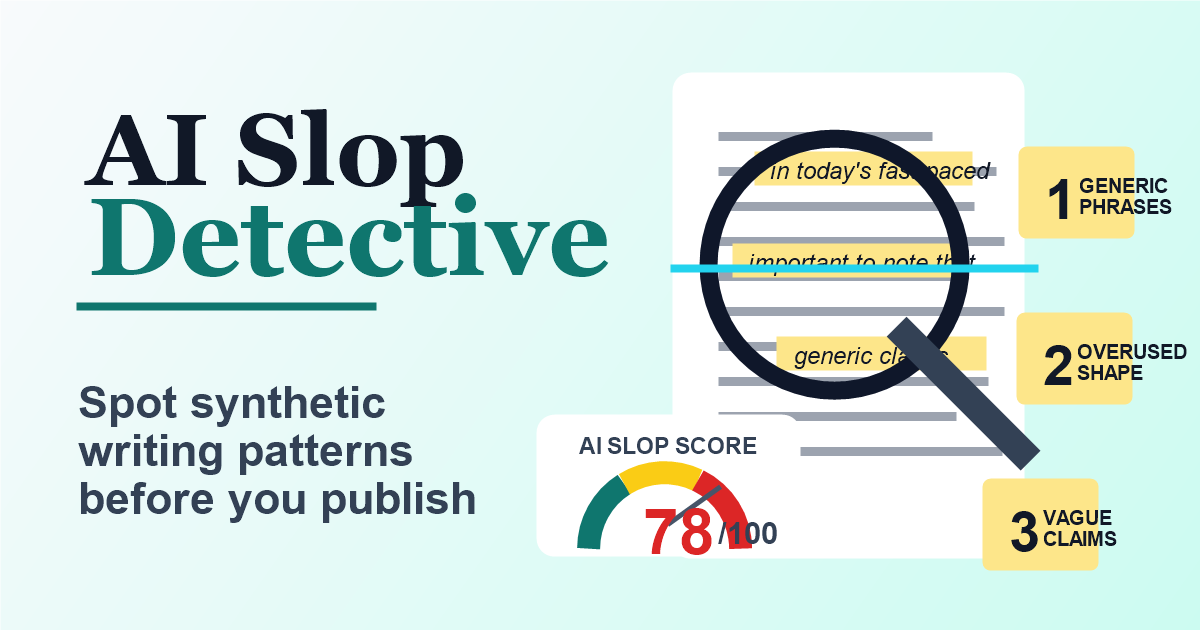
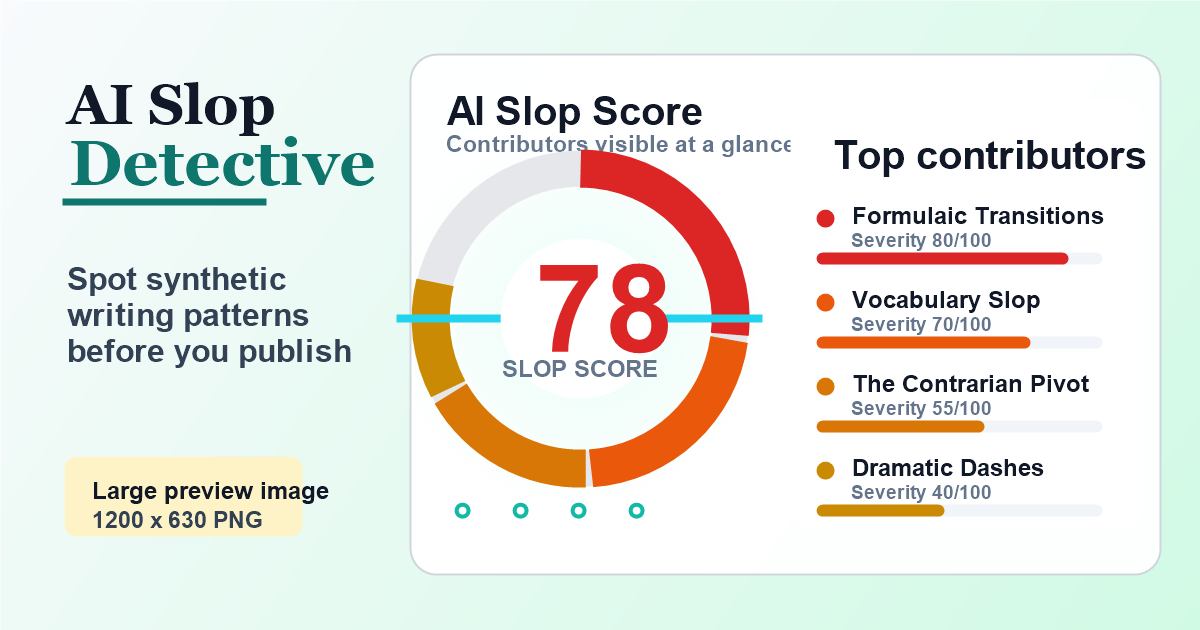
improved visual on the wheels

diff --git a/components/SlopChart.tsx b/components/SlopChart.tsx
@@ -65,6 +65,13 @@ const SlopChart: React.FC<SlopChartProps> = ({ analysis, patterns }) => {
      }];
   }
 
+  const contributors = chartData
+    .filter(item => item.name !== "Remaining" && item.name !== "Clean Writing")
+    .sort((a, b) => b.value - a.value);
+
+  const totalContributorValue = contributors.reduce((acc, item) => acc + item.value, 0);
+  const topContributors = contributors.slice(0, 5);
+
   let scoreColor = '#0d9488'; // teal-600 for low/good scores
   if (score >= 30) scoreColor = '#ca8a04';
   if (score >= 60) scoreColor = '#dc2626';
@@ -99,15 +106,31 @@ const SlopChart: React.FC<SlopChartProps> = ({ analysis, patterns }) => {
 
   return (
     <div className="bg-white rounded-2xl border border-gray-200 p-6 shadow-sm relative overflow-hidden">
-        <h3 className="text-lg font-bold text-gray-700 mb-4 text-center">AI Slop Score</h3>
-        <div className="h-[300px] w-full relative">
+        <div className="absolute inset-0 pointer-events-none">
+          <div className="absolute -top-24 left-10 h-48 w-48 rounded-full bg-teal-100/60 blur-3xl"></div>
+          <div className="absolute bottom-0 right-0 h-56 w-56 rounded-full bg-red-100/40 blur-3xl"></div>
+          <div className="slop-chart-scan absolute left-0 right-0 h-12 bg-cyan-300/10"></div>
+        </div>
+
+        <div className="relative z-10 mb-5 flex flex-col gap-2 text-center md:text-left">
+          <span className="text-xs font-bold uppercase text-teal-700">Pattern contribution</span>
+          <h3 className="text-xl font-bold text-gray-900">AI Slop Score</h3>
+        </div>
+
+        <div className="relative z-10 grid grid-cols-1 md:grid-cols-[minmax(280px,0.95fr)_minmax(260px,1.05fr)] gap-6 items-center">
+          <div className="h-[320px] w-full relative">
+            <div
+              className="slop-chart-orbit absolute left-1/2 top-1/2 h-64 w-64 -translate-x-1/2 -translate-y-1/2 rounded-full opacity-70"
+              style={{ background: `conic-gradient(from 120deg, transparent 0deg, ${scoreColor} 70deg, transparent 150deg, rgba(20, 184, 166, 0.25) 230deg, transparent 360deg)` }}
+            ></div>
+            <div className="absolute left-1/2 top-1/2 h-44 w-44 -translate-x-1/2 -translate-y-1/2 rounded-full border border-gray-100 bg-white/80 shadow-inner"></div>
             
             {/* Center Label - Rendered FIRST so the Chart (and its Tooltip) stack ON TOP of it */}
             <div className="absolute inset-0 flex flex-col items-center justify-center pointer-events-none">
-                <span className="text-6xl font-extrabold tracking-tighter" style={{ color: scoreColor }}>
+                <span className="text-6xl font-extrabold" style={{ color: scoreColor }}>
                     {score}
                 </span>
-                <span className="text-xs text-gray-400 uppercase tracking-widest font-bold mt-1">Slop Score</span>
+                <span className="text-xs text-gray-400 uppercase font-bold mt-1">Slop Score</span>
             </div>
 
             <ResponsiveContainer width="100%" height="100%">
@@ -124,26 +147,82 @@ const SlopChart: React.FC<SlopChartProps> = ({ analysis, patterns }) => {
                         cornerRadius={4}
                         startAngle={90}
                         endAngle={-270}
+                        isAnimationActive={true}
+                        animationBegin={160}
+                        animationDuration={1200}
+                        animationEasing="ease-out"
                     >
                         {chartData.map((entry, index) => (
-                            <Cell key={`cell-${index}`} fill={entry.color} />
+                            <Cell
+                              key={`cell-${index}`}
+                              fill={entry.color}
+                              className={entry.name === "Remaining" || entry.name === "Clean Writing" ? "" : "slop-chart-segment"}
+                            />
                         ))}
                     </Pie>
                     <Tooltip 
                       content={<CustomTooltip />} 
-                      isAnimationActive={false}
+                      isAnimationActive={true}
                       cursor={{ fill: 'transparent' }}
                       wrapperStyle={{ zIndex: 50 }}
                     />
                 </PieChart>
             </ResponsiveContainer>
-            
+
+          </div>
+
+          <div className="rounded-xl border border-gray-200 bg-white/85 p-4 shadow-sm">
+            <div className="mb-4 flex items-center justify-between gap-4">
+              <div>
+                <h4 className="text-sm font-bold text-gray-900">Score contributors</h4>
+                <p className="text-xs text-gray-500 mt-1">
+                  {score === 0 ? "No weighted pattern hits found." : "Ranked by weighted contribution."}
+                </p>
+              </div>
+              <div className="rounded-full border border-gray-200 bg-gray-50 px-3 py-1 text-xs font-bold text-gray-600">
+                {contributors.length} active
+              </div>
+            </div>
+
+            {topContributors.length > 0 ? (
+              <ol className="space-y-3">
+                {topContributors.map((item, index) => {
+                  const share = totalContributorValue > 0 ? Math.max(4, Math.round((item.value / totalContributorValue) * 100)) : 0;
+
+                  return (
+                    <li key={item.name} className="group">
+                      <div className="mb-1.5 flex items-center justify-between gap-3">
+                        <div className="flex min-w-0 items-center gap-2">
+                          <span
+                            className="h-3 w-3 shrink-0 rounded-full shadow-sm"
+                            style={{ backgroundColor: item.color }}
+                            aria-hidden="true"
+                          ></span>
+                          <span className="text-sm font-bold leading-snug text-gray-800" title={item.name}>
+                            {index + 1}. {item.name}
+                          </span>
+                        </div>
+                        <span className="shrink-0 font-mono text-xs font-bold text-gray-500">
+                          {item.score}/100
+                        </span>
+                      </div>
+                      <div className="h-2 overflow-hidden rounded-full bg-gray-100">
+                        <div
+                          className="slop-contributor-bar h-full rounded-full"
+                          style={{ width: `${share}%`, backgroundColor: item.color }}
+                        ></div>
+                      </div>
+                    </li>
+                  );
+                })}
+              </ol>
+            ) : (
+              <div className="rounded-lg border border-teal-100 bg-teal-50 px-4 py-5 text-sm font-semibold text-teal-800">
+                No signs of AI generation detected.
+              </div>
+            )}
+          </div>
         </div>
-        <p className="text-center text-sm text-gray-500 mt-2 max-w-md mx-auto">
-            {score === 0 
-                ? "No signs of AI generation detected." 
-                : "Mouse over the colored segments to see which patterns contributed to this score."}
-        </p>
     </div>
   );
 };

diff --git a/index.html b/index.html
@@ -61,6 +61,72 @@
       .animate-ping-slow {
         animation: ping-slow 3s cubic-bezier(0, 0, 0.2, 1) infinite;
       }
+
+      @keyframes slop-scan {
+        0% {
+          transform: translateY(-80px);
+          opacity: 0;
+        }
+        18% {
+          opacity: 1;
+        }
+        72% {
+          opacity: 0.8;
+        }
+        100% {
+          transform: translateY(520px);
+          opacity: 0;
+        }
+      }
+
+      @keyframes slop-orbit {
+        from {
+          transform: translate(-50%, -50%) rotate(0deg);
+        }
+        to {
+          transform: translate(-50%, -50%) rotate(360deg);
+        }
+      }
+
+      @keyframes slop-bar-fill {
+        from {
+          transform: scaleX(0);
+        }
+        to {
+          transform: scaleX(1);
+        }
+      }
+
+      .slop-chart-scan {
+        animation: slop-scan 4.8s ease-in-out infinite;
+      }
+
+      .slop-chart-orbit {
+        animation: slop-orbit 12s linear infinite;
+        filter: blur(14px);
+      }
+
+      .slop-chart-segment {
+        transition: filter 180ms ease, opacity 180ms ease;
+      }
+
+      .slop-chart-segment:hover {
+        filter: drop-shadow(0 0 10px rgba(15, 118, 110, 0.35));
+        opacity: 0.92;
+      }
+
+      .slop-contributor-bar {
+        animation: slop-bar-fill 900ms ease-out both;
+        transform-origin: left center;
+      }
+
+      @media (prefers-reduced-motion: reduce) {
+        .slop-chart-scan,
+        .slop-chart-orbit,
+        .slop-contributor-bar {
+          animation: none;
+        }
+      }
     </style>
   <script type="importmap">
 {

diff --git a/shared/releaseNotes.ts b/shared/releaseNotes.ts
@@ -6,6 +6,12 @@ export interface ReleaseNote {
 
 export const RELEASE_NOTES: ReleaseNote[] = [
   {
+    version: "1.38",
+    date: "2026-06-04",
+    note: "Made score contributors visible and refreshed the link preview image.",
+  },
+
+  {
     version: "1.37",
     date: "2026-06-04",
     note: "Added richer link previews for Slack and LinkedIn sharing.",
